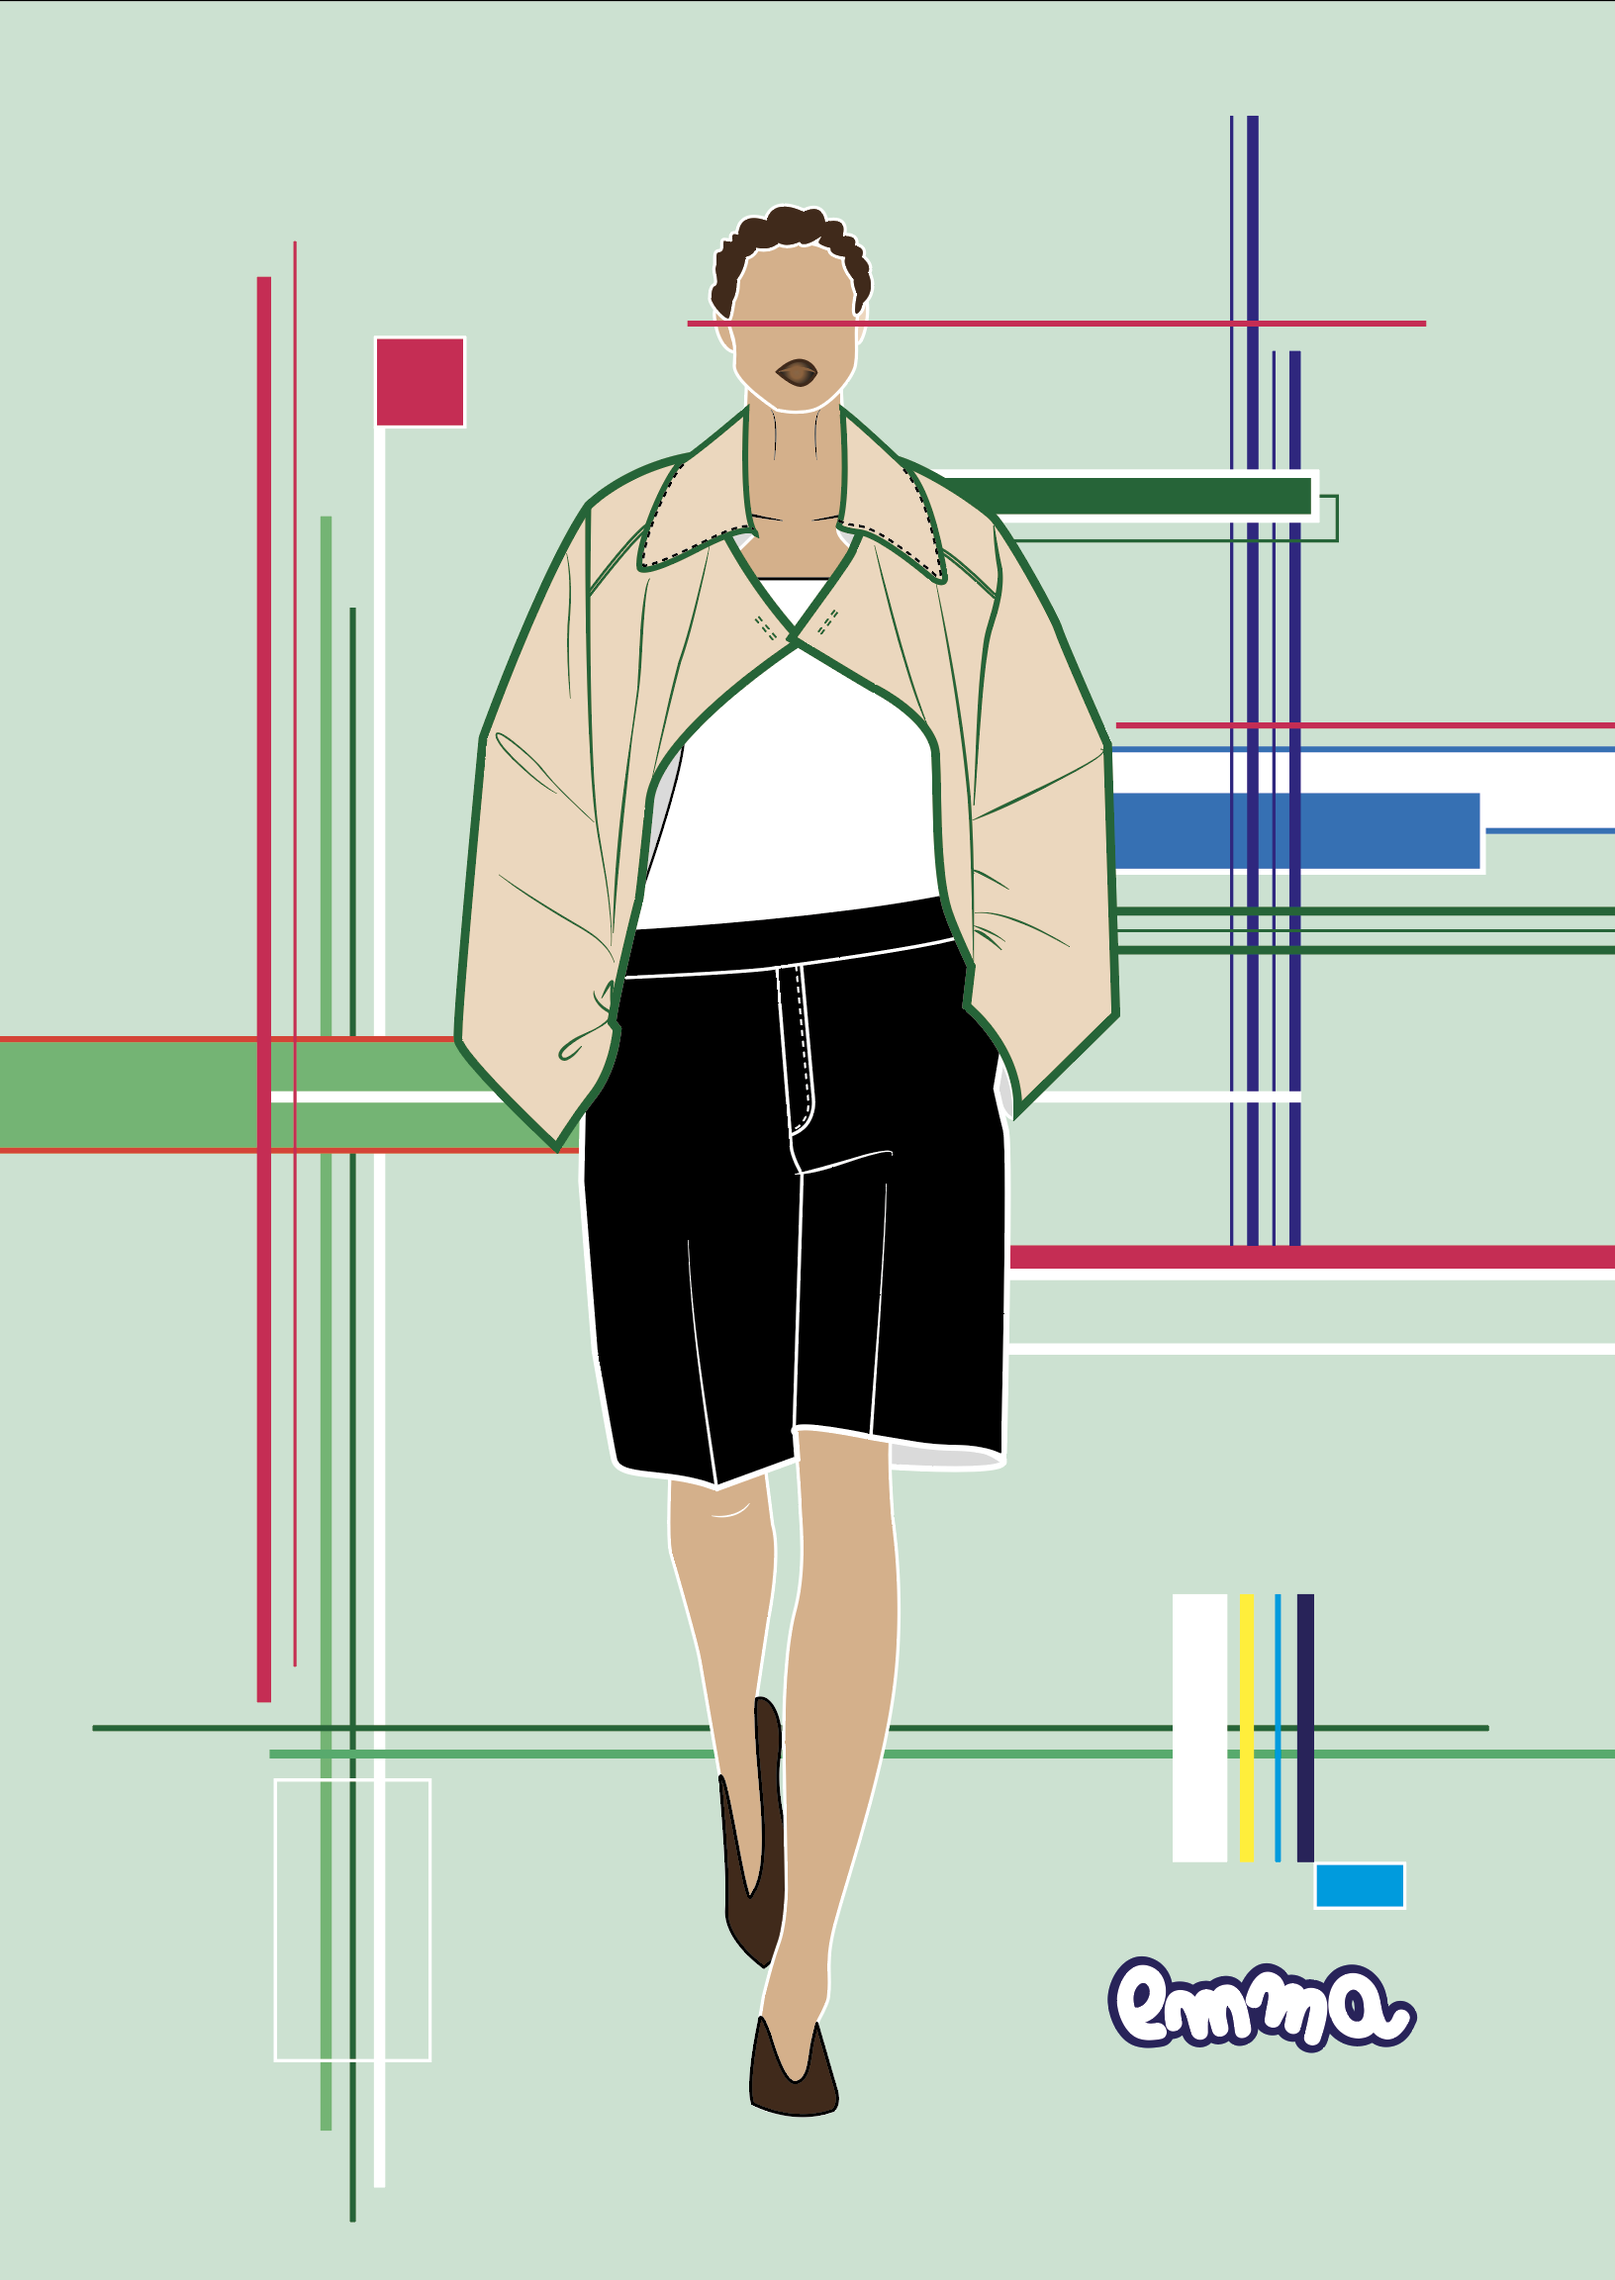
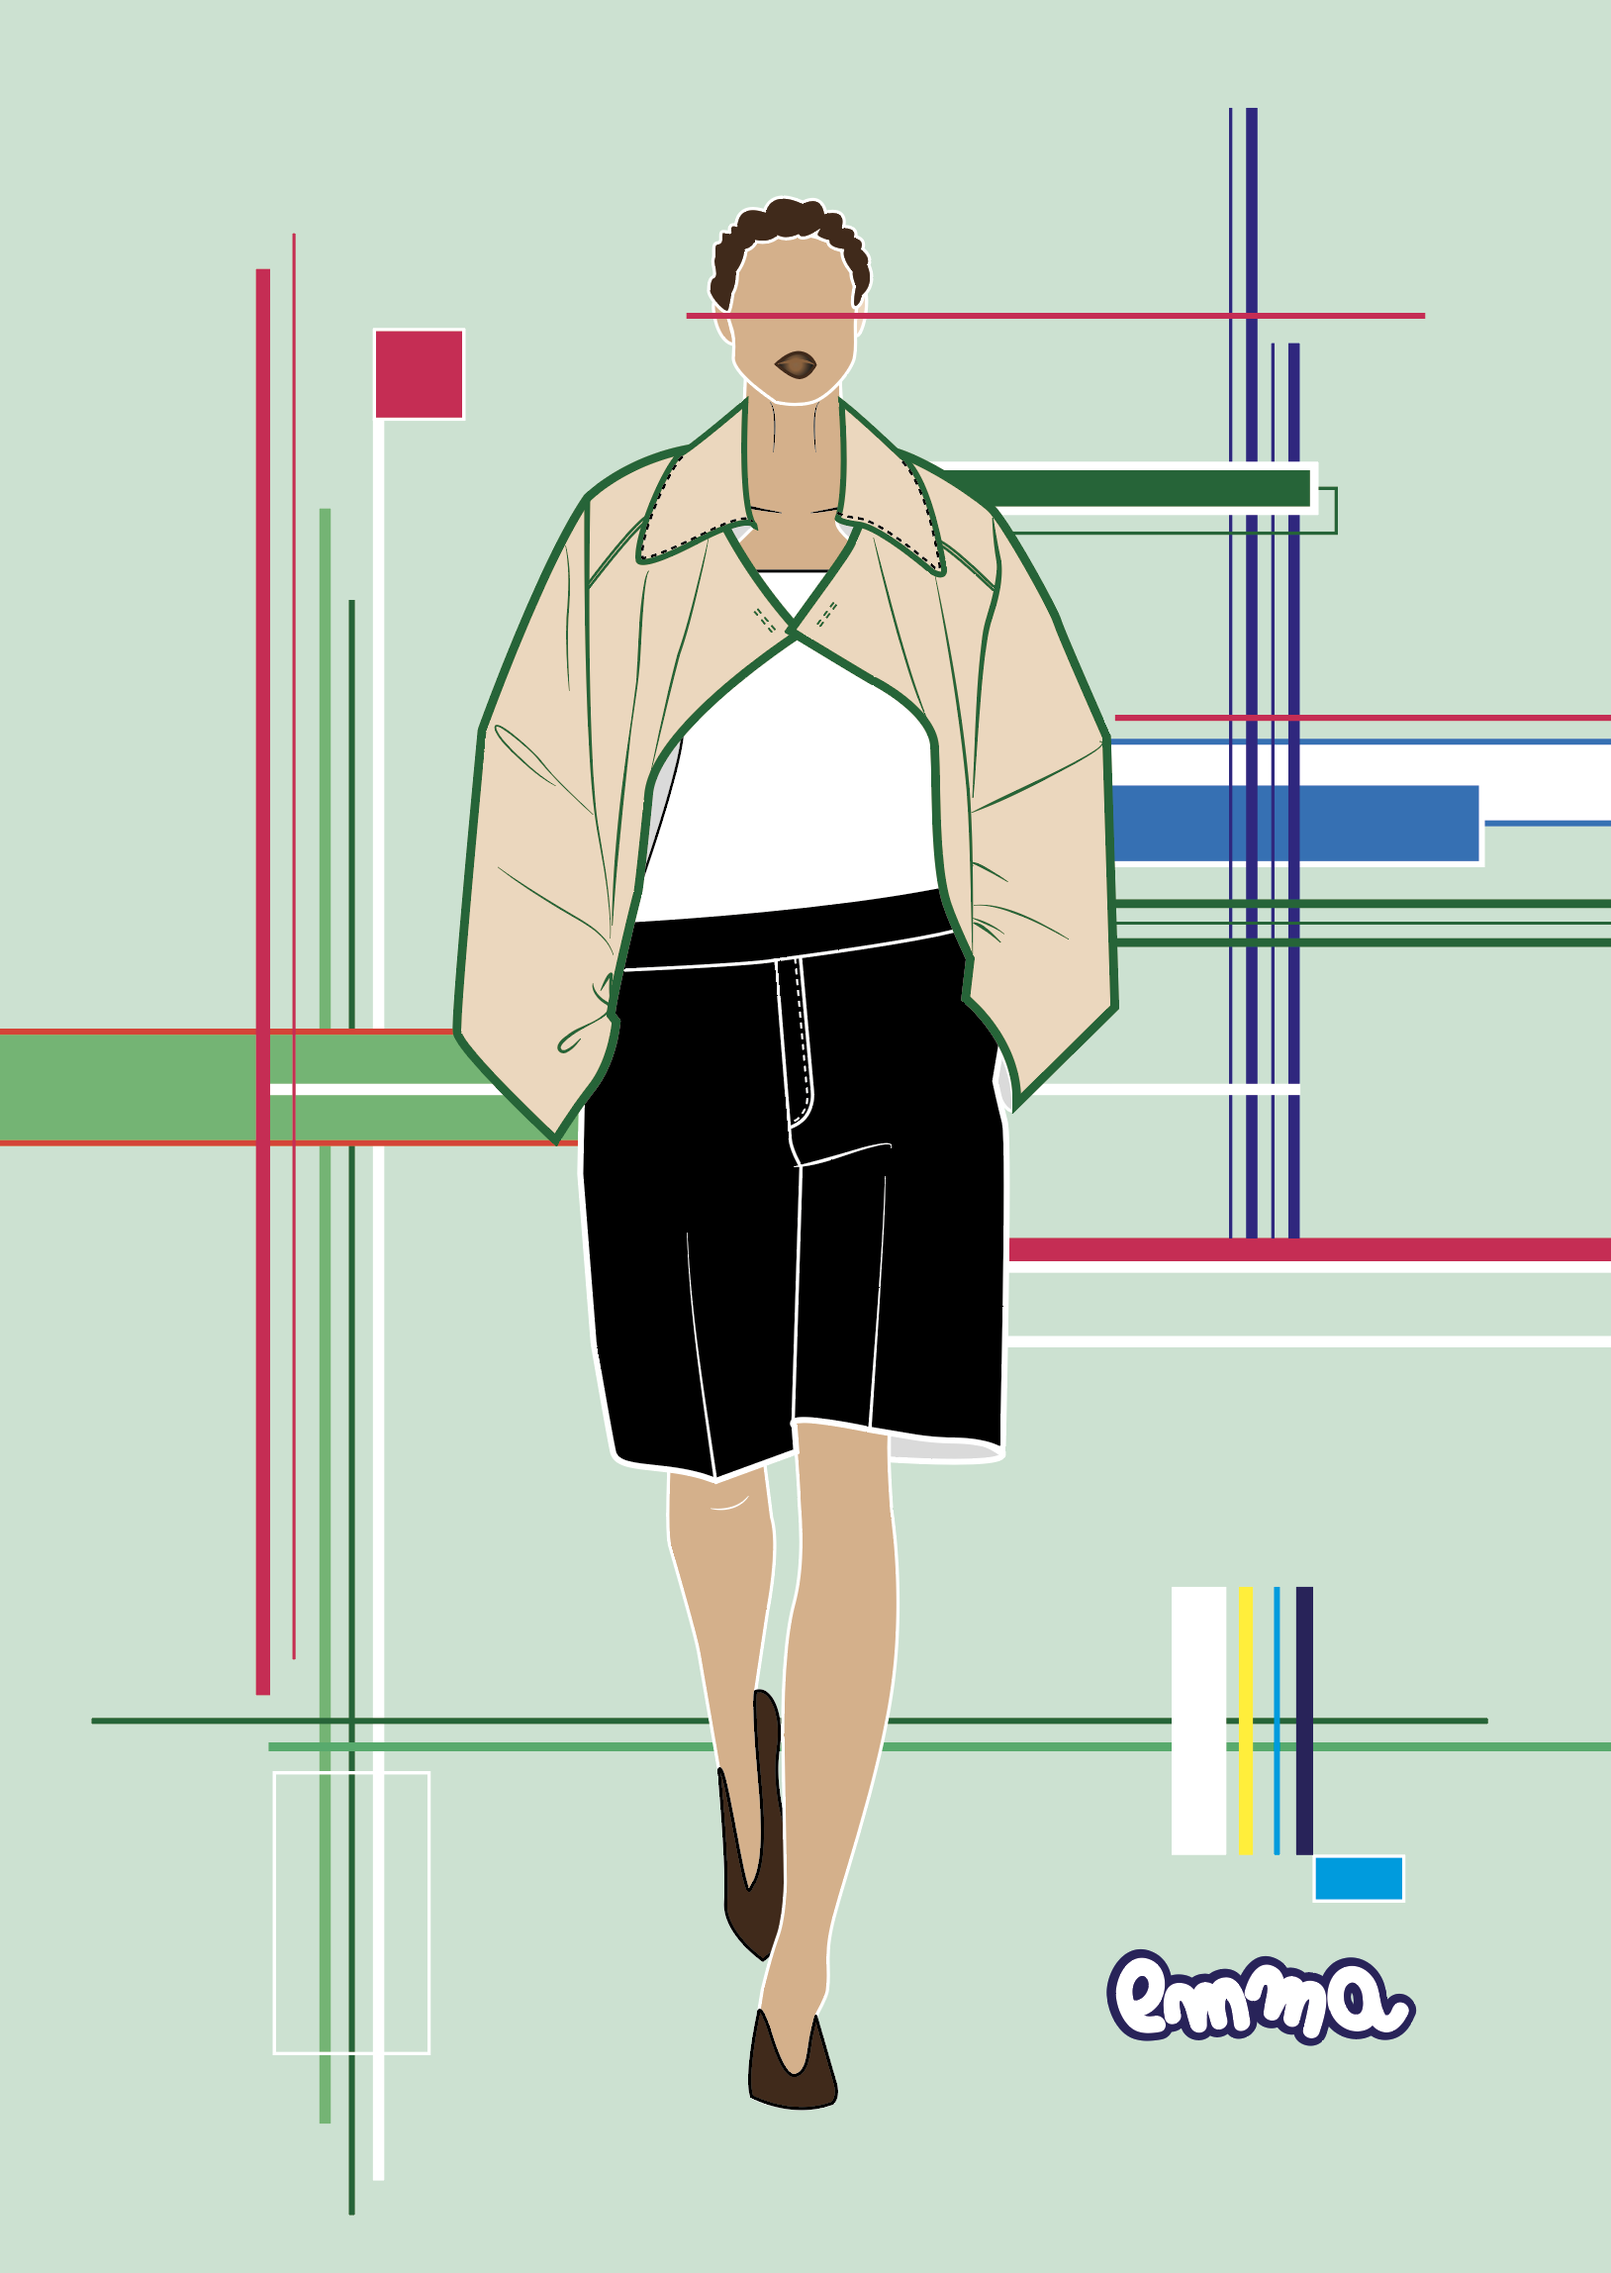
Update Illustration artwork and layout

diff --git a/app/globals.css b/app/globals.css
@@ -85,11 +85,11 @@ h2 { margin: 0 0 clamp(32px, 4vw, 62px); text-align: center; font-family: "Cavia
 @keyframes style-marquee { from { transform: translate3d(0, 0, 0); } to { transform: translate3d(-25%, 0, 0); } }
 
 .illustration-design { min-height: auto; aspect-ratio: 843 / 596; background: transparent; }
-.illustration-grid { position: absolute; left: .6%; right: .6%; top: 23%; display: grid; grid-template-columns: repeat(4, 1fr); align-items: start; gap: 2.6%; margin: 0; }
+.illustration-grid { position: absolute; left: 4%; right: 4.8%; top: 23%; display: grid; grid-template-columns: repeat(4, 1fr); align-items: start; gap: 2.6%; margin: 0; }
 .illustration-grid img { width: 100%; height: auto; aspect-ratio: auto; object-fit: contain; object-position: initial; }
-.draw-statement { position: absolute; left: .6%; top: 68.5%; display: flex; align-items: center; gap: 2.5%; width: 52%; margin: 0; font-family: "Caviar Dreams", sans-serif; font-size: clamp(37px, 5.5vw, 92px); font-weight: 700; line-height: 1; text-transform: uppercase; white-space: nowrap; }
+.draw-statement { position: absolute; left: 4%; top: 68.5%; display: flex; align-items: center; gap: 2.5%; width: 48%; margin: 0; font-family: "Caviar Dreams", sans-serif; font-size: clamp(37px, 5.5vw, 92px); font-weight: 700; line-height: 1; text-transform: uppercase; white-space: nowrap; }
 .draw-statement i { display: block; flex: 0 0 clamp(3px, .38vw, 6px); width: clamp(3px, .38vw, 6px); height: 1.45em; background: var(--ink); }
-.illustration-design > p { position: absolute; left: .6%; right: 2%; top: 85.5%; margin: 0; font-family: "Montserrat", sans-serif; font-size: clamp(7px, .82vw, 14px); font-weight: 600; line-height: 1.12; }
+.illustration-design > p { position: absolute; left: 4%; right: 4.8%; top: 85.5%; margin: 0; font-family: "Montserrat", sans-serif; font-size: clamp(7px, .82vw, 14px); font-weight: 600; line-height: 1.12; }
 
 .collaboration-design { min-height: min(68vw, 900px); }
 .collab-copy { position: absolute; left: 6%; top: 19%; width: 25%; font-family: "Arial Regular Local", Arial, sans-serif; font-weight: 400; }
@@ -156,10 +156,10 @@ footer a { text-underline-offset: 4px; }
   .rail-2 .style-motion-card { width: clamp(118px, 35vw, 195px); height: 80%; }
   .illustration-design { min-height: auto; padding: 18px 10px; aspect-ratio: 843 / 596; }
   .illustration-design h3 { font-size: clamp(8px, 1.85vw, 15px); }
-  .illustration-grid { left: .6%; right: .6%; top: 23%; grid-template-columns: repeat(4, 1fr); gap: 2.6%; margin: 0; }
-  .draw-statement { left: .6%; top: 68.5%; width: 52%; gap: 2.5%; margin: 0; font-size: clamp(20px, 7.2vw, 46px); }
+  .illustration-grid { left: 4%; right: 4.8%; top: 23%; grid-template-columns: repeat(4, 1fr); gap: 2.6%; margin: 0; }
+  .draw-statement { left: 4%; top: 68.5%; width: 48%; gap: 2.5%; margin: 0; font-size: clamp(20px, 7.2vw, 46px); }
   .draw-statement i { width: clamp(2px, .55vw, 4px); }
-  .illustration-design > p { left: .6%; right: 2%; top: 85.5%; margin: 0; font-size: clamp(4.6px, 1.42vw, 9px); line-height: 1.08; }
+  .illustration-design > p { left: 4%; right: 4.8%; top: 85.5%; margin: 0; font-size: clamp(4.6px, 1.42vw, 9px); line-height: 1.08; }
   .collab-copy, .collab-visual, .brand { position: static; width: 100%; }
   .collab-copy { margin-top: 34px; }
   .collab-copy .concept { margin-bottom: 18px; }
